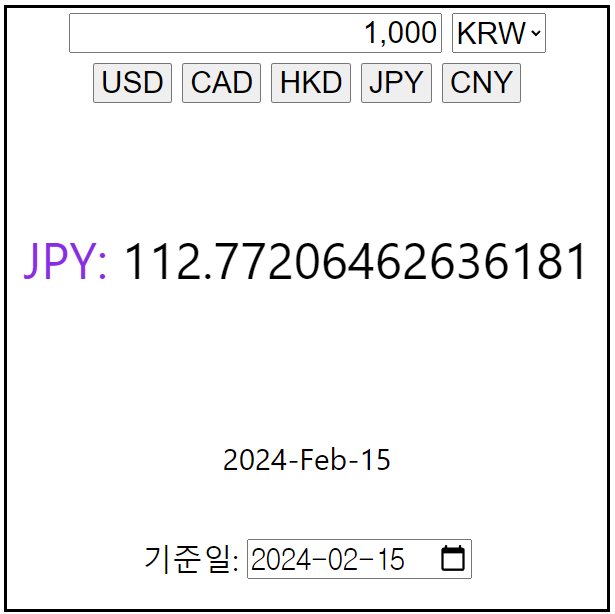
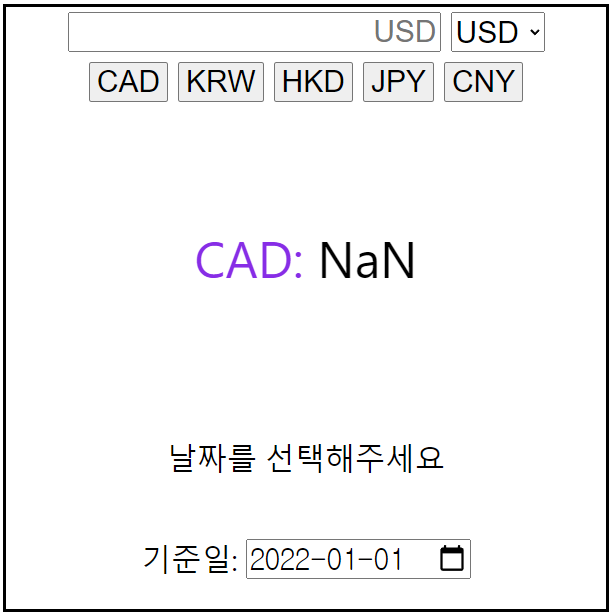
useEffect 내용 dateChanged로 편입

diff --git a/exchanger_rate/src/App.js b/exchanger_rate/src/App.js
@@ -30,29 +30,11 @@ function App() {
     "Dec",
   ];
   // 날짜 다른 포맷
-  const [date2, setDate2] = React.useState("2022-Jan-01");
+  const [date2, setDate2] = React.useState("날짜를 선택해주세요");
 
   // redux에 있는 api에서 받아온 환율, 선택된 날짜
   const dispatch = useDispatch();
   const { rate, date } = useSelector((state) => state.exchange);
-
-  // 날짜가 변경될 때 마다 새 환율 데이터 호출
-  React.useEffect(() => {
-    try {
-      Axios.get(
-        `https://api.apilayer.com/exchangerates_data/${date}?base=USD&symbols=USD,CAD,KRW,HKD,JPY,CNY&apikey=${process.env.REACT_APP_API_KEY}`,
-        {
-          headers: {
-            "Content-Type": "application/json",
-          },
-        }
-      ).then((response) => {
-        dispatch(setRate(response.data.rates));
-      });
-    } catch (error) {
-      console.error(error);
-    }
-  }, [date]);
 
   // 입력된 금액 변화 이벤트
   const costChanged = (e) => {
@@ -87,6 +69,22 @@ function App() {
 
   // 날짜 선택 이벤트
   const dateChanged = (e) => {
+    // 선택된 날짜의 api 가져오기
+    try {
+      Axios.get(
+        `https://api.apilayer.com/exchangerates_data/${date}?base=USD&symbols=USD,CAD,KRW,HKD,JPY,CNY&apikey=${process.env.REACT_APP_API_KEY}`,
+        {
+          headers: {
+            "Content-Type": "application/json",
+          },
+        }
+      ).then((response) => {
+        dispatch(setRate(response.data.rates));
+      });
+    } catch (error) {
+      console.error(error);
+    }
+
     // 선택된 국가 저장
     dispatch(setDate(e.target.value));
 

diff --git a/README.md b/README.md
@@ -16,4 +16,15 @@
 선택된 국가에 따른 계산 결과를 출력합니다  
 날짜는 선택이 가능합니다
 
-![alt text](a.png)
+- 초기 실행 화면
+  ![alt text](a.png)
+
+- 금액 입력, 국가와 날짜 선택 시
+  ![alt text](b.png)
+
+---
+
+기준일 input에서 onChnage가 되면 값이 변한다
+-> 그럼 굳이 값이 변하길 기다렸다가 요청을 보내야할까?
+
+input에 값이 바뀌면 onChange를 먼저 보자!
